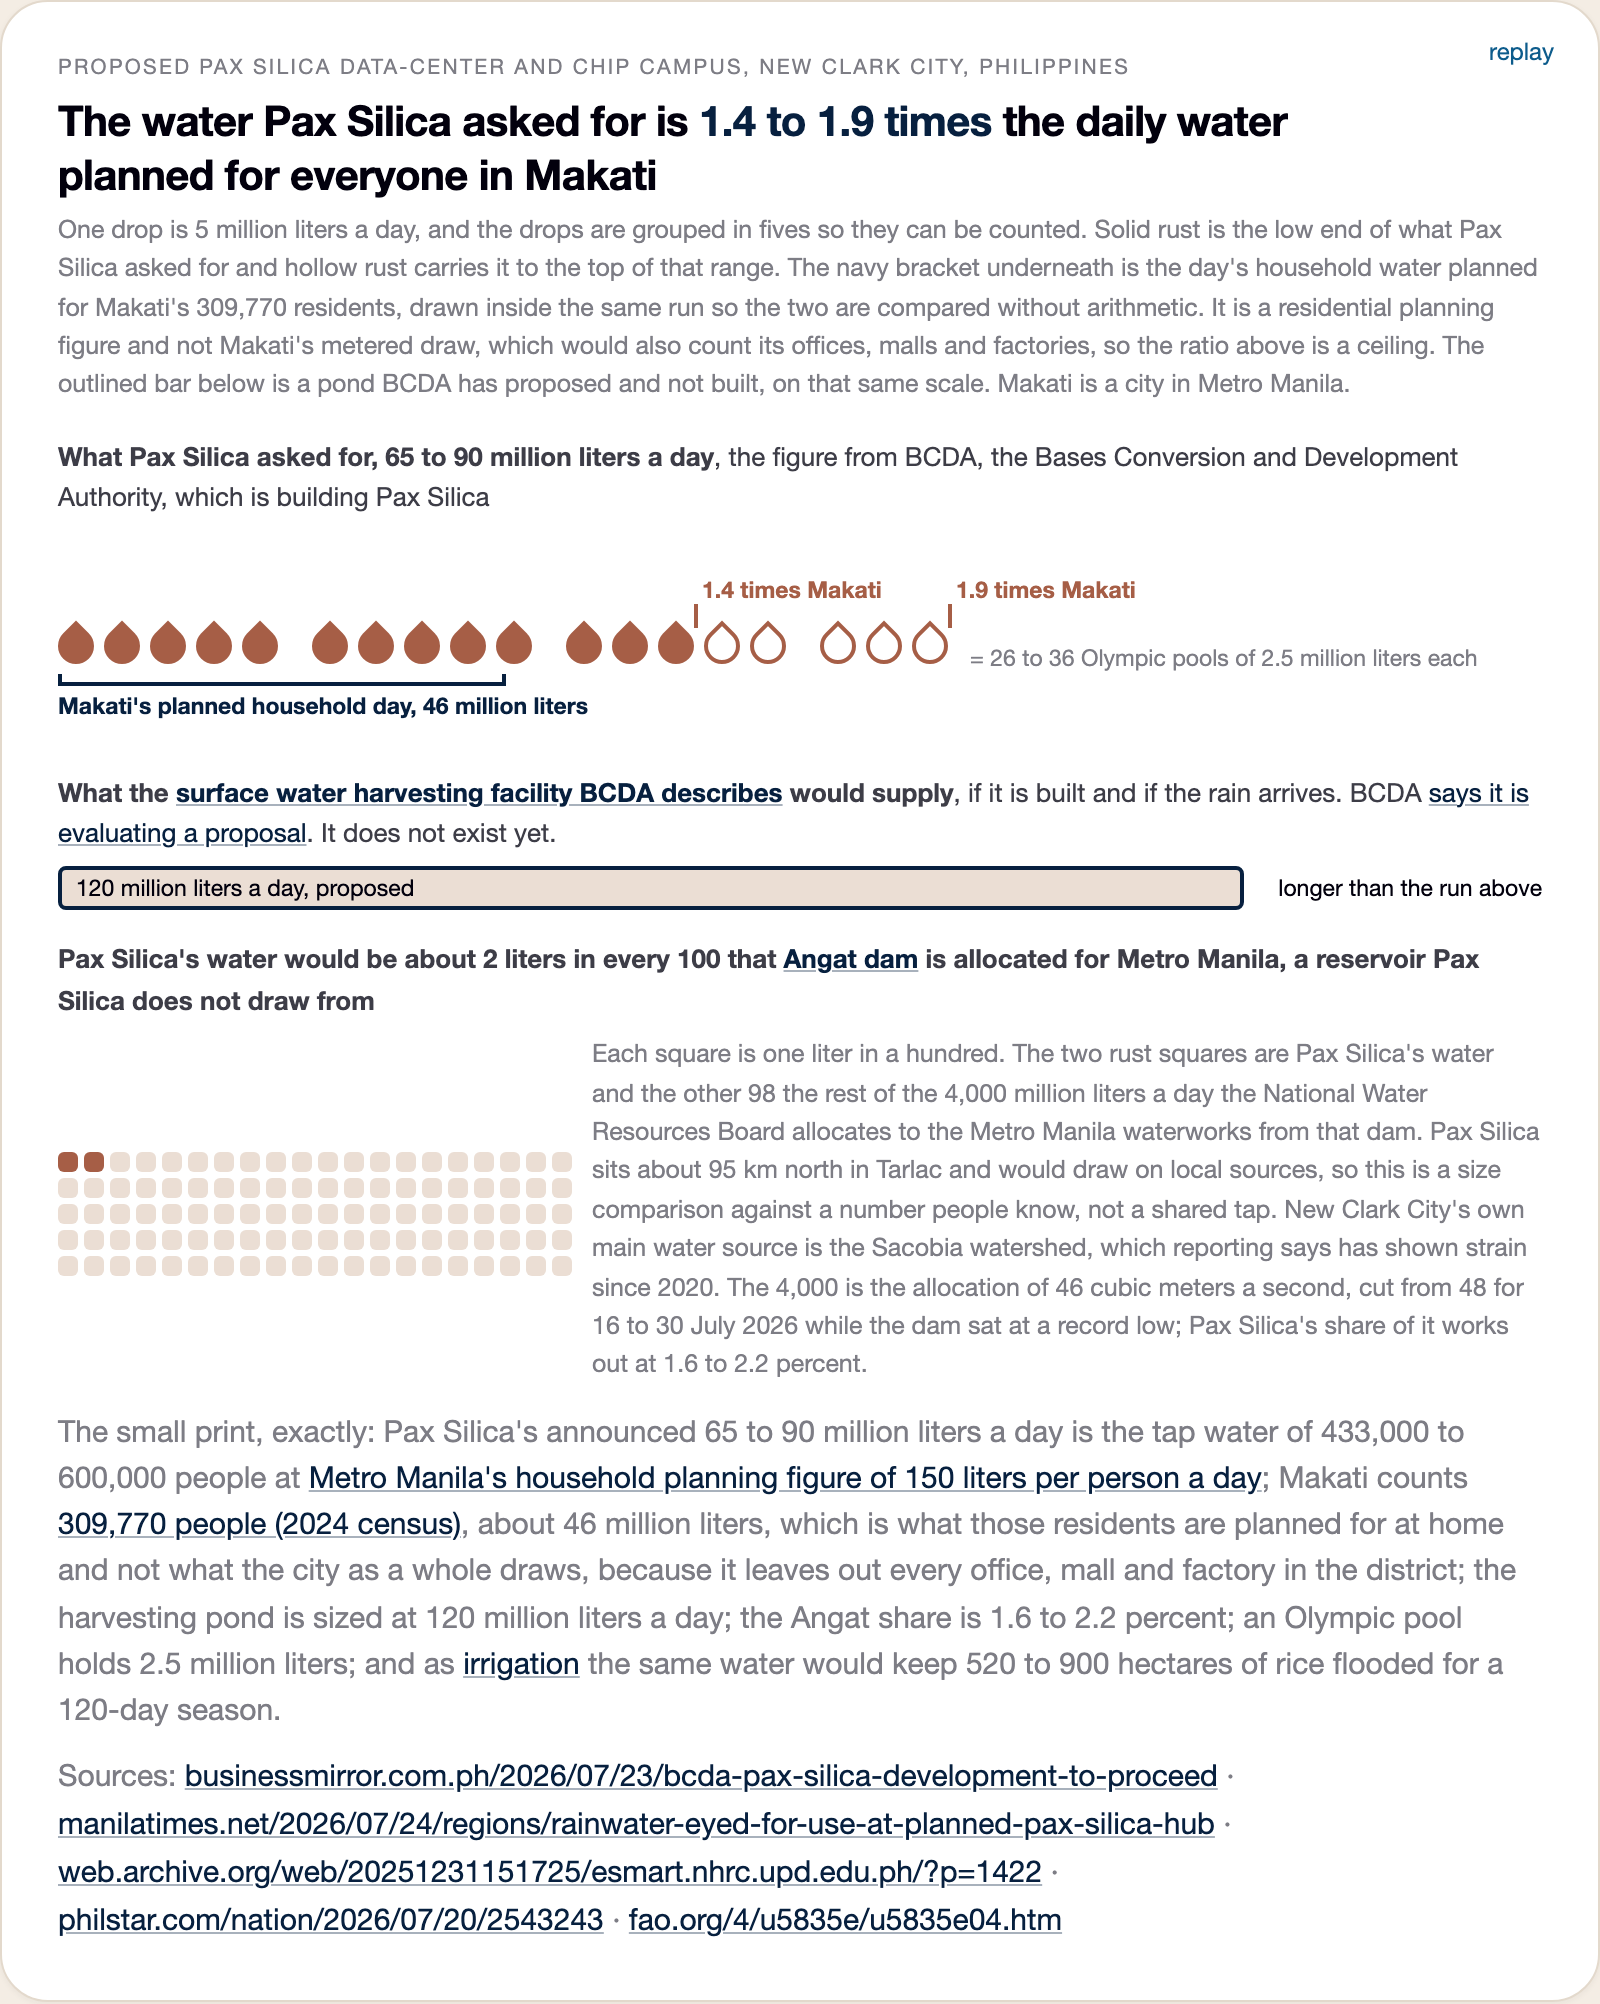
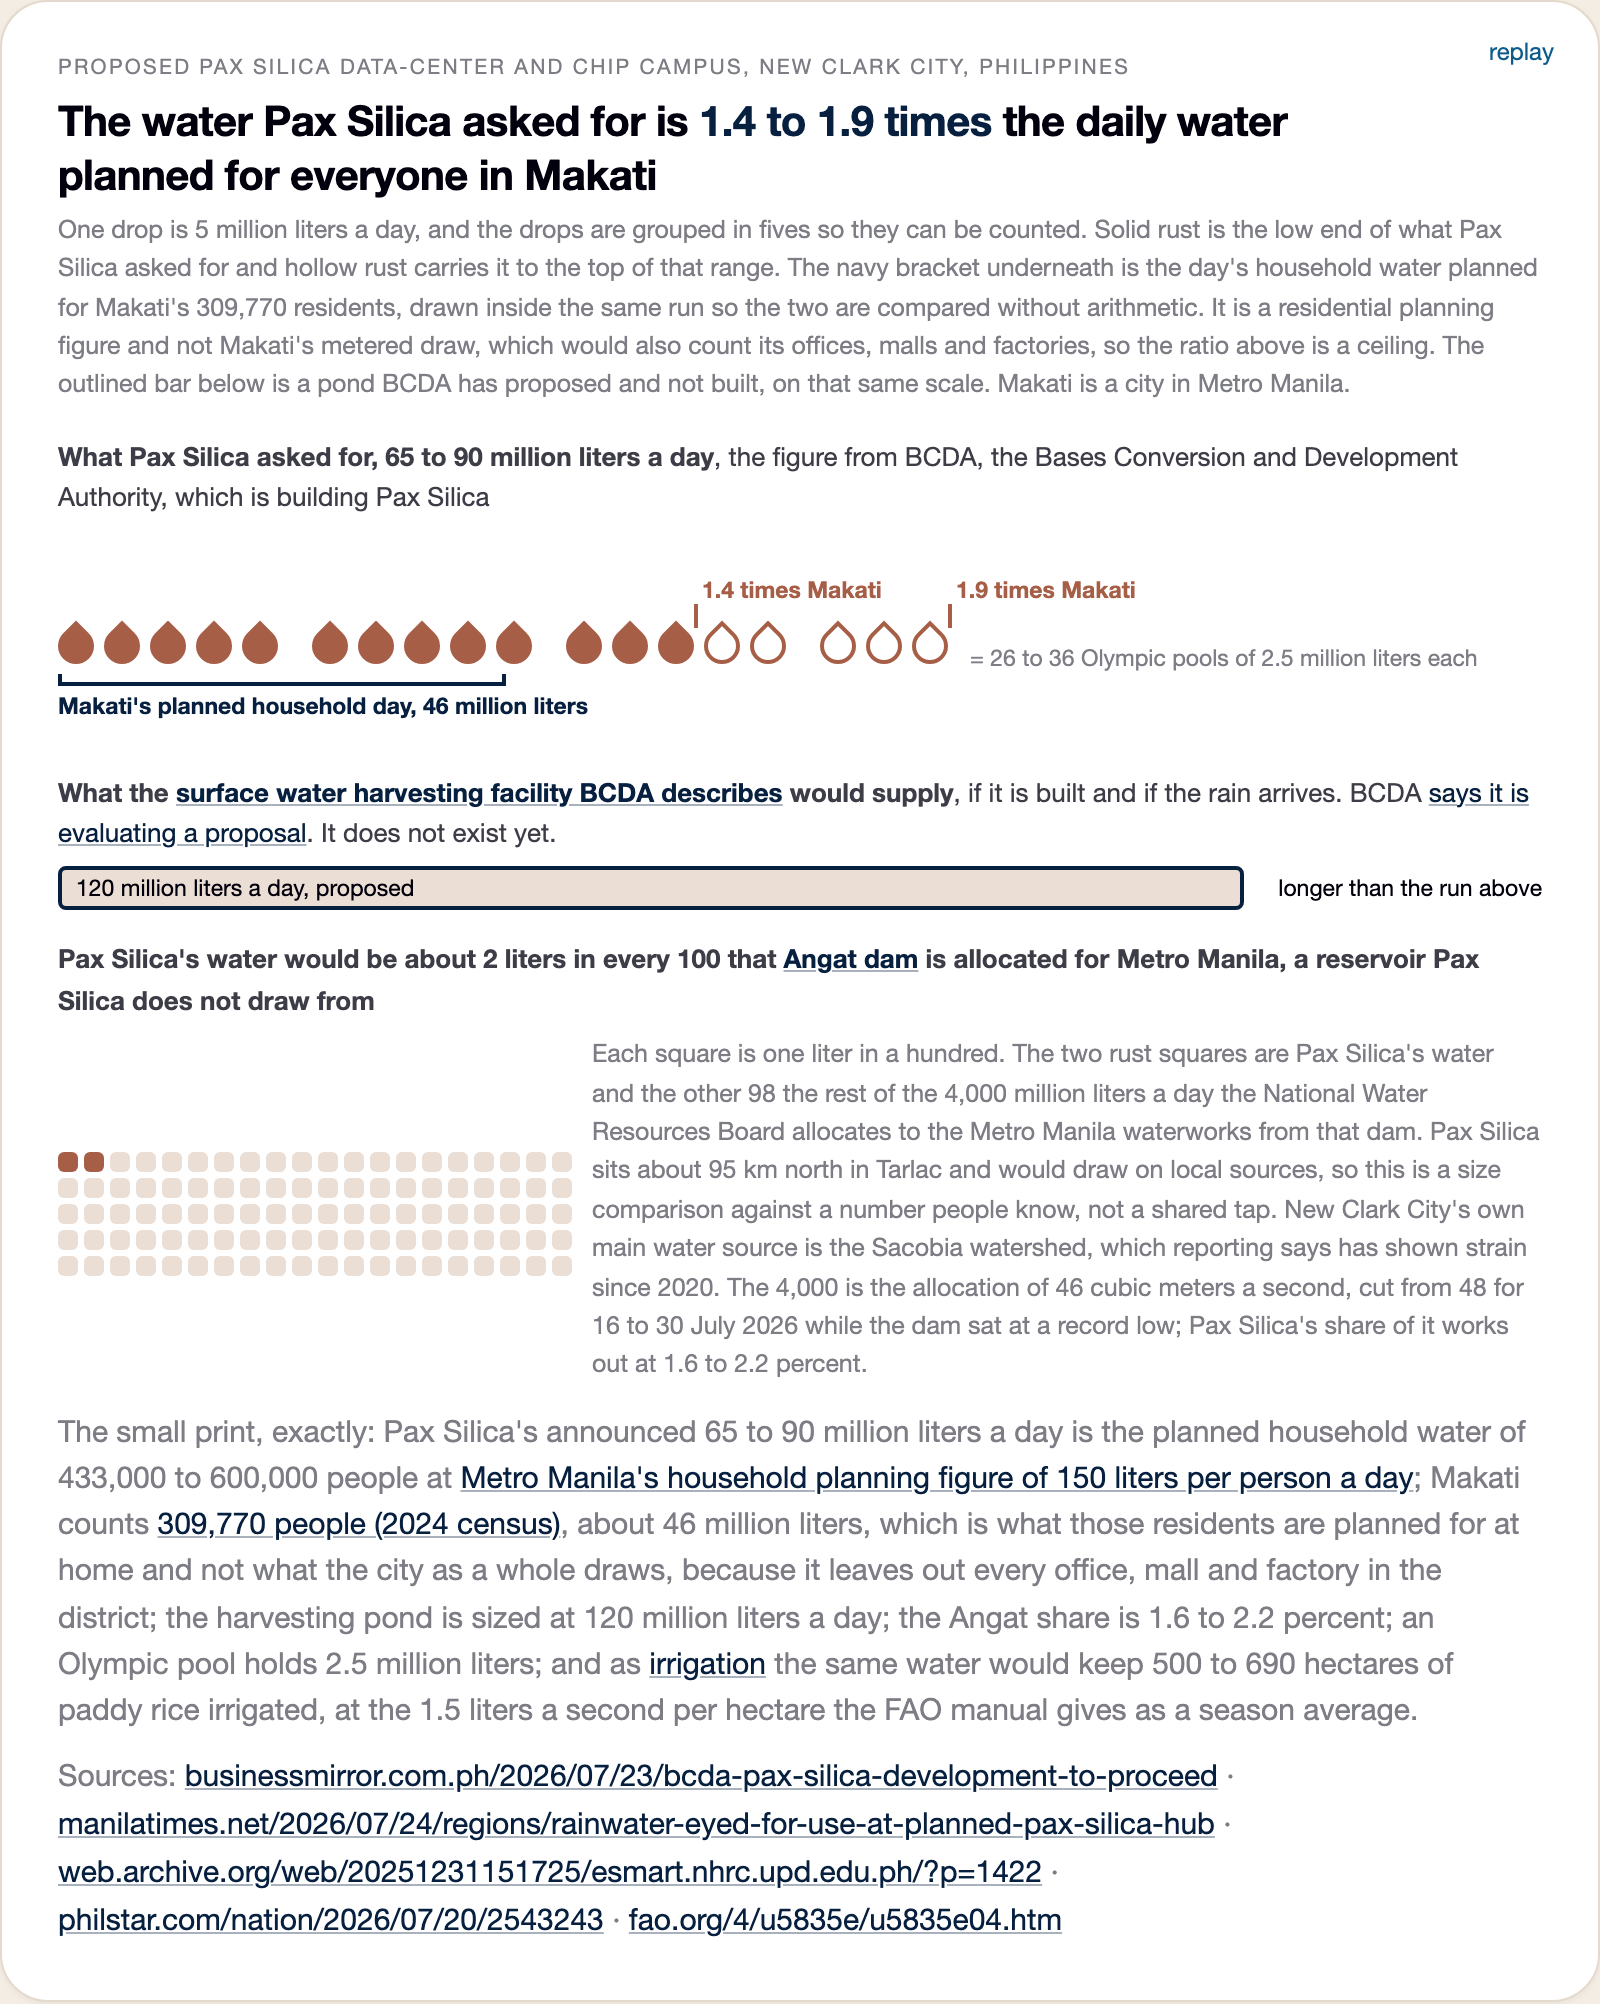
Derive the rice comparison from the paddy figure the cited FAO page actually prints
The water card credited the FAO irrigation manual with "1,200 to 1,500 mm a
season". That page carries no instance of 1200, 1,200, 1 200, 1500, 1,500 or
1 500. It is a manual on net irrigation need, and the paddy figure it does
publish is Table 1's 1.5 liters a second per hectare.

At that duty, 129.6 cubic meters a hectare a day, the announced 65 to 90 million
liters a day irrigates 500 to 690 hectares rather than 520 to 900. The bake now
stores the duty beside the hectares and the pin derives one from the other, so
the cited page and the printed number cannot part company again.

Also says "planned household water" where it said "tap water", to match the
correction already made to the Makati comparison.

Changed region(s): [[0.0312, 0.7116, 0.9688, 0.8663]]

diff --git a/web/pax-silica.html b/web/pax-silica.html
@@ -623,7 +623,8 @@ and the division is simple. Here is that number three ways.</p>
     1.6 to 2.2 percent.</div>
   </div>
   <p class="fignote">The small print, exactly: Pax Silica's announced 65 to 90
-  million liters a day is the tap water of 433,000 to 600,000 people at
+  million liters a day is the planned household water of 433,000 to 600,000
+  people at
   <a href="https://web.archive.org/web/20251231151725/https://esmart.nhrc.upd.edu.ph/?p=1422">Metro Manila's household planning figure of 150 liters
   per person a day</a>; Makati counts
   <a href="https://en.wikipedia.org/wiki/Makati">309,770 people (2024 census)</a>,
@@ -634,7 +635,8 @@ and the division is simple. Here is that number three ways.</p>
   share is 1.6 to 2.2 percent; an Olympic
   pool holds 2.5 million liters; and as
   <a href="https://www.fao.org/4/u5835e/u5835e04.htm">irrigation</a> the same
-  water would keep 520 to 900 hectares of rice flooded for a 120-day season.</p>
+  water would keep 500 to 690 hectares of paddy rice irrigated, at the 1.5 liters
+  a second per hectare the FAO manual gives as a season average.</p>
   <p class="rawline">Sources: <a href="https://businessmirror.com.ph/2026/07/23/bcda-pax-silica-development-to-proceed-under-marcos-admin-creating-up-to-190k-jobs/">businessmirror.com.ph/2026/07/23/bcda-pax-silica-development-to-proceed</a> &middot; <a href="https://www.manilatimes.net/2026/07/24/regions/rainwater-eyed-for-use-at-planned-pax-silica-hub/2390193">manilatimes.net/2026/07/24/regions/rainwater-eyed-for-use-at-planned-pax-silica-hub</a> &middot; <a href="https://web.archive.org/web/20251231151725/https://esmart.nhrc.upd.edu.ph/?p=1422">web.archive.org/web/20251231151725/esmart.nhrc.upd.edu.ph/?p=1422</a> &middot; <a href="https://www.philstar.com/nation/2026/07/20/2543243/mwss-water-allocation-reduced-anew">philstar.com/nation/2026/07/20/2543243</a> &middot; <a href="https://www.fao.org/4/u5835e/u5835e04.htm">fao.org/4/u5835e/u5835e04.htm</a></p>
 </div>
 
@@ -752,7 +754,7 @@ them against the city they sit in and two places whose size people know.</p>
 <tr><td>3,000 MW at full development, which BCDA puts 10 to 15 years after construction starts in 2028 (BCDA, 23 Jul 2026). A reporter's own earlier projection put demand at "at least 5 gigawatts" (Inquirer Business, 22 Jun 2026), which BCDA has not adopted</td>
     <td>More than any Visayas or Mindanao 5-minute peak in 105 archived days; about a fifth of Luzon's</td></tr>
 <tr><td>65 to 90 million liters of water a day (BCDA, Jul 2026)</td>
-    <td>The daily tap water of 433,000 to 600,000 people, or 520 to 900 hectares of rice in season</td></tr>
+    <td>The daily household water planned for 433,000 to 600,000 people, or the irrigation for 500 to 690 hectares of paddy rice</td></tr>
 <tr><td>500 MW solar with storage on 500 hectares (ACWA lease, Jun 2026)</td>
     <td>4.1% of Pax Silica's day, on a cloudless day, and nothing at the 7pm peak</td></tr>
 <tr><td>P6.95B dedicated 230 kV substation by end-2028 (NGCP plan, May 2026)</td>
@@ -795,7 +797,7 @@ what Pax Silica would be worth.</div>
 <li>Angat allocation of 46 cubic meters per second, about 4,000 million liters a day, cut from 48 for 16 to 30 July 2026: <a href="https://www.philstar.com/nation/2026/07/20/2543243/mwss-water-allocation-reduced-anew">Philstar, 20 Jul 2026</a>. The 150 liters per person a day is a household demand projection for Metro Manila from UP's National Hydraulic Research Center, <a href="https://web.archive.org/web/20251231151725/https://esmart.nhrc.upd.edu.ph/?p=1422">project e-SMART</a>, archived because the live page stopped answering. New Clark City's own Sacobia watershed: <a href="https://mb.com.ph/2026/07/22/pax-silica-explained">Manila Bulletin, 22 Jul 2026</a>.</li>
 <li>NGCP Visayas alert bulletins: <a href="https://www.gmanetwork.com/news/money/economy/991469/ngcp-visayas-grid-yellow-alert-june-15-2026/story/">15 June 2026</a> and <a href="https://www.gmanetwork.com/news/money/economy/991590/ngcp-visayas-grid-yellow-alert-june-16-2026/story/">16 June 2026</a>, via GMA News.</li>
 <li>BCDA on jobs, the 99-year lease and the 1,620 hectares: <a href="https://www.philstar.com/business/2026/07/24/2544359/pax-silica-investors-may-lease-new-clark-land-99-years-bcda">Philstar, 24 Jul 2026</a>. BCDA's Project Affected Persons list and the Capas farmland share, both via the scientists' group Agham: <a href="https://www.philstar.com/headlines/2026/07/27/2545030/scientists-group-debunks-claims-pax-silica-project">Philstar, 27 Jul 2026</a>.</li>
-<li>Rice season water, 1,200 to 1,500 mm: <a href="https://www.fao.org/4/u5835e/u5835e04.htm">FAO irrigation manual</a>; IRRI.</li>
+<li>Paddy rice at 1.5 liters a second per hectare, the season-average net irrigation need in Table 1 of the <a href="https://www.fao.org/4/u5835e/u5835e04.htm">FAO irrigation manual</a>, which is 129.6 cubic meters a hectare a day.</li>
 <li>Grid peaks: IEMOP's <a href="https://www.iemop.ph/market-data/rtd-regional-summaries/">regional dispatch files</a>, <a href="https://github.com/xmpuspus/power-dispatch-studio/tree/main/data/raw/RTDSUM">archived here</a>. The 770 MW delivery limit: <a href="https://github.com/xmpuspus/power-dispatch-studio/blob/main/pipeline/nodal_dcopf.py">the model that solves the network</a> on <a href="https://www.openstreetmap.org/copyright">OpenStreetMap</a> routes. Prices: <a href="https://github.com/xmpuspus/power-dispatch-studio/blob/main/pipeline/dispatch.py">dispatch.py</a> on <a href="https://www.iemop.ph/market-data/indicative-administered-prices/">IEMOP's administered prices</a>, <a href="https://www.foi.gov.ph/requests/malampaya-natural-gas-price/">the freedom-of-information answer on gas</a>, and a labelled oil assumption. Nodal congestion: <a href="https://www.iemop.ph/market-data/dipc-energy-results-final/">IEMOP's nodal price files</a>.</li>
 </ul>
 <p class="sources">Community-mapped grid routes are OpenStreetMap data, under its Open

diff --git a/pipeline/perspective.py b/pipeline/perspective.py
@@ -120,9 +120,14 @@ ANGAT_WINDOW = "16 to 30 Jul 2026"
 # watershed, the primary water source for New Clark City, has reportedly shown
 # signs of strain since 2020." https://mb.com.ph/2026/07/22/pax-silica-explained
 LOCAL_WATERSHED = "Sacobia"
-# FAO/IRRI: a paddy season takes 1,200-1,500 mm, i.e. 12-15 ML per hectare,
-# over a roughly 120-day season. https://www.fao.org/4/u5835e/u5835e04.htm
-RICE_ML_HA_SEASON_LOW, RICE_ML_HA_SEASON_HIGH, RICE_SEASON_DAYS = 12.0, 15.0, 120
+# FAO irrigation manual, Table 1, "APPROXIMATE AVERAGE IN net VALUES FOR
+# DIFFERENT CLIMATES AND RICE": paddy rice takes 1.5 liters per second per
+# hectare as an average net irrigation need across the season. That is 129.6
+# cubic meters a hectare a day, or 13 mm a day. Use the figure that page prints;
+# it carries no season-total in millimeters.
+# https://www.fao.org/4/u5835e/u5835e04.htm
+RICE_L_S_HA = 1.5
+RICE_ML_HA_DAY = RICE_L_S_HA * 86400 / 1e6  # 0.1296 ML per hectare per day
 # MTerra Solar, Nueva Ecija-Bulacan: 3,500 MWp on 3,500 ha with a 4,500 MWh
 # battery, the largest single solar-plus-storage build anywhere; first grid
 # sync Feb 2026. https://en.wikipedia.org/wiki/Meralco_Terra_Solar_Farm
@@ -371,8 +376,8 @@ def main() -> None:
     # water equivalences from the announced 65-90 MLD
     people_lo = WATER_MLD_LOW * 1e6 / LITERS_PER_PERSON_DAY
     people_hi = WATER_MLD_HIGH * 1e6 / LITERS_PER_PERSON_DAY
-    rice_ha_lo = WATER_MLD_LOW / (RICE_ML_HA_SEASON_HIGH / RICE_SEASON_DAYS)
-    rice_ha_hi = WATER_MLD_HIGH / (RICE_ML_HA_SEASON_LOW / RICE_SEASON_DAYS)
+    rice_ha_lo = WATER_MLD_LOW / RICE_ML_HA_DAY
+    rice_ha_hi = WATER_MLD_HIGH / RICE_ML_HA_DAY
 
     out = {
         "generated_from": "pipeline/perspective.py",
@@ -520,6 +525,7 @@ def main() -> None:
                                  round(people_hi / MAKATI_POP, 1)],
             "liters_per_person_day": LITERS_PER_PERSON_DAY,
             "rice_ha": [round(rice_ha_lo, -1), round(rice_ha_hi, -1)],
+            "rice_l_s_ha": RICE_L_S_HA,
             "angat_mld": ANGAT_MLD,
             "angat_cms": ANGAT_CMS,
             "angat_window": ANGAT_WINDOW,
@@ -533,7 +539,7 @@ def main() -> None:
                 "standard": LITERS_SRC + " (UP National Hydraulic Research Center project e-SMART: \"medium domestic water demand projections at 150 liters per day per capita\", households only; the live page stopped answering in July 2026, so this is the archived copy)",
                 "makati": "https://en.wikipedia.org/wiki/Makati (2024 census, after the Embo transfer)",
                 "angat": "https://www.philstar.com/nation/2026/07/20/2543243/mwss-water-allocation-reduced-anew (NWRB cut the MWSS allocation from 48 to 46 cubic meters per second for 16 to 30 Jul 2026; 46 CMS is 3,974 million liters a day, rounded here to 4,000, and it is an allocation for Metro Manila and Rizal rather than a measured withdrawal)",
-                "rice": "https://www.fao.org/4/u5835e/u5835e04.htm (1,200-1,500 mm a season)",
+                "rice": "https://www.fao.org/4/u5835e/u5835e04.htm (Table 1, paddy rice at 1.5 liters per second per hectare as the average net irrigation need over a season, which is 129.6 cubic meters a hectare a day)",
                 "nwrb": "https://businessmirror.com.ph/2026/07/22/local-water-source-enough-to-supply-pax-silica-operation-water-board/",
                 "dispute": "https://www.gmanetwork.com/news/topstories/regions/996145/explainer-how-would-pax-silica-sustain-its-water-demand/story/",
             },

diff --git a/tests/test_perspective.py b/tests/test_perspective.py
@@ -61,6 +61,8 @@ def check_html_static_text(c, p, s, w, wa, pr, SITE):
         f"{wa['people_equiv'][0]:,.0f} to {wa['people_equiv'][1]:,.0f} people")
     has("water rice hectares",
         f"{wa['rice_ha'][0]:,.0f} to {wa['rice_ha'][1]:,.0f} hectares")
+    has("the paddy duty is named beside the hectares it produces",
+        f"{wa['rice_l_s_ha']} liters")
     has("water Angat share",
         f"{wa['angat_share_pct'][0]} to {wa['angat_share_pct'][1]} percent")
     has("Makati 2024 population", f"{wa['makati_pop_2024']:,}")
@@ -349,8 +351,13 @@ def main():
     pin("Makati multiple uses the 2024 census (post-Embo)",
         wa["makati_pop_2024"] == 309770
         and wa["vs_makati_people"][1] == round(600000 / 309770, 1))
-    pin("rice hectares from FAO 12-15 ML/ha/season over 120 days",
-        wa["rice_ha"] == [round(65 / (15 / 120), -1), round(90 / (12 / 120), -1)],
+    # the FAO manual the page cites prints one paddy figure, Table 1's 1.5 l/s/ha.
+    # It carries no season total in millimeters, so the hectares must come from
+    # that duty and nothing else.
+    duty = wa["rice_l_s_ha"] * 86400 / 1e6
+    pin("rice hectares come from the FAO paddy duty the cited page prints",
+        wa["rice_l_s_ha"] == 1.5
+        and wa["rice_ha"] == [round(65 / duty, -1), round(90 / duty, -1)],
         f"{wa['rice_ha']}")
     pin("Angat share stays a small percent (1-3%)",
         1.0 <= wa["angat_share_pct"][0] <= wa["angat_share_pct"][1] <= 3.0)

diff --git a/docs/pax-silica-visuals.md b/docs/pax-silica-visuals.md
@@ -179,8 +179,9 @@ last row zooms out. Angat dam is a size reference and not a shared tap. It
 supplies Metro Manila, about 95 km south, while New Clark City draws on the
 Sacobia watershed. Of every 100 liters Angat is allocated for Metro Manila, Pax
 Silica would take about 2, the two colored squares in the grid. The small print carries the exact figures,
-including that the same water would keep 520 to 900 hectares of rice
-flooded. The National Water Resources Board says local sources are enough. Farmer
+including that the same water would irrigate 500 to 690 hectares of paddy rice,
+at the 1.5 liters a second per hectare the FAO manual gives as a season
+average. The National Water Resources Board says local sources are enough. Farmer
 groups and Aeta communities on the land dispute that, and nobody has
 published an independent study of the site's water.
 
